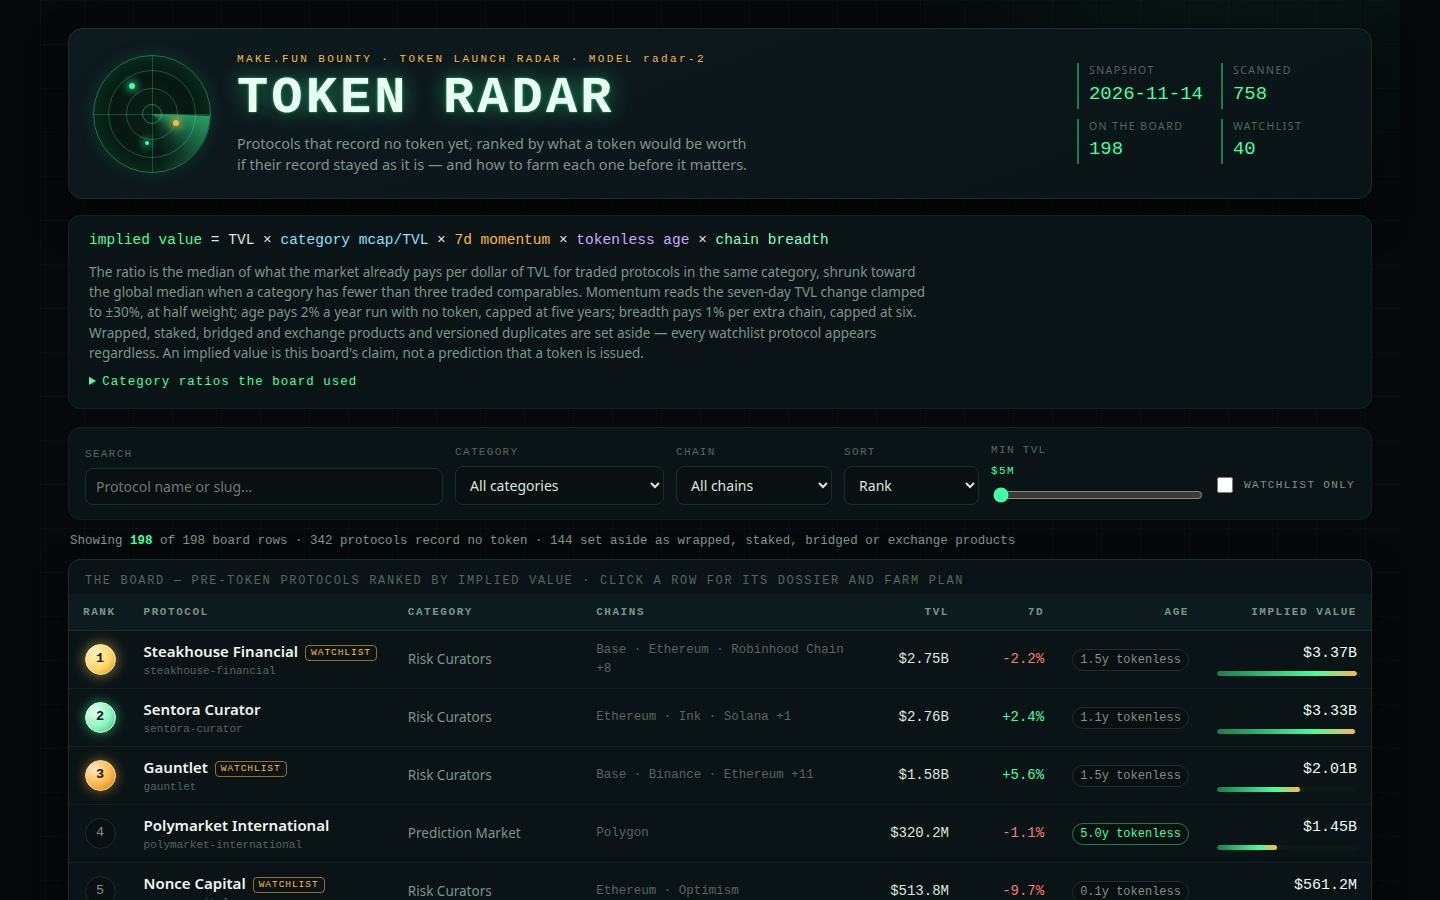
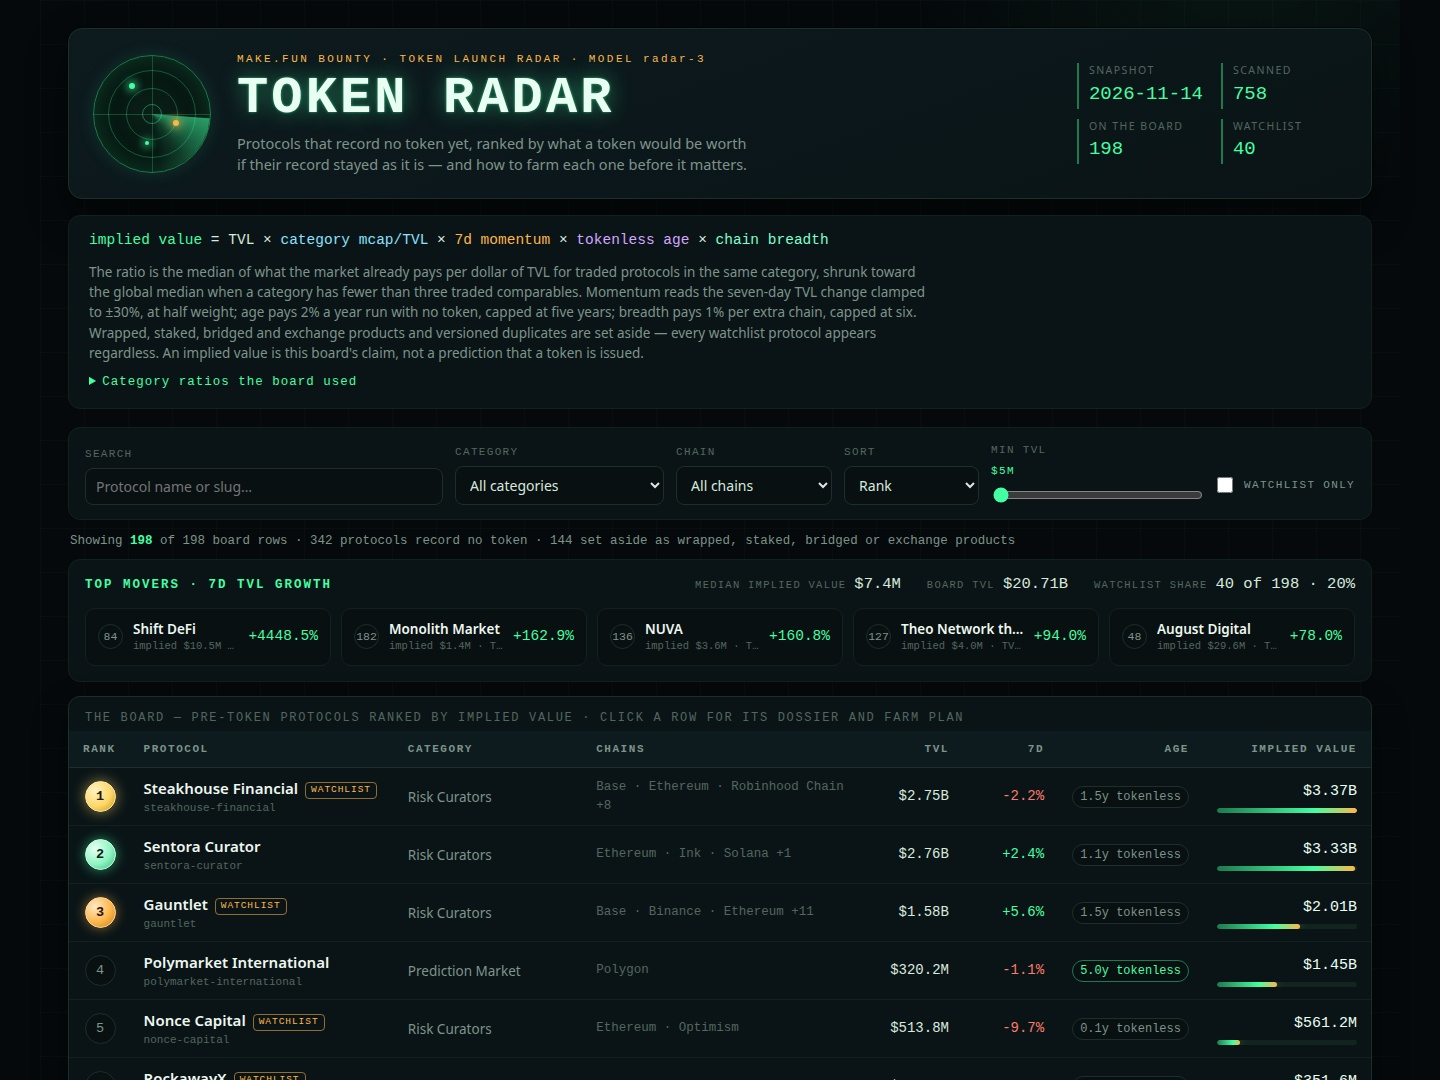
Screenshots, third pass: movers strip contained, dossier-framed detail with the comparable-set panel and plan summary, all three frames in the 300-350 KB band at 1440x1080

diff --git a/dashboard/app.css b/dashboard/app.css
@@ -147,21 +147,21 @@ h1 {
 .strip-stats div { display: flex; align-items: baseline; gap: 8px; }
 .strip-stats dt { font-size: 10.5px; letter-spacing: .12em; text-transform: uppercase; color: var(--faint); font-family: var(--mono); }
 .strip-stats dd { margin: 0; font-family: var(--mono); font-size: 15.5px; color: var(--txt); }
-.movers { display: grid; grid-template-columns: repeat(5, 1fr); gap: 10px; margin-top: 12px; }
+.movers { display: grid; grid-template-columns: repeat(5, minmax(0, 1fr)); gap: 10px; margin-top: 12px; }
 .mcard {
-  display: flex; align-items: center; gap: 10px; text-align: left; cursor: pointer;
+  display: flex; align-items: center; gap: 10px; text-align: left; cursor: pointer; min-width: 0;
   padding: 10px 12px; border-radius: 10px; color: var(--txt);
   background: var(--ink-2); border: 1px solid var(--line-soft); font: inherit;
   transition: border-color .15s ease, background .15s ease;
 }
 .mcard:hover { border-color: var(--phos-dim); background: rgba(67,255,163,.05); }
 .mcard:focus-visible { outline: 2px solid var(--phos-dim); outline-offset: 2px; }
-.mcard .rk { width: 27px; height: 27px; font-size: 12px; flex: 0 0 auto; }
+.mcard .rk { width: 25px; height: 25px; font-size: 11.5px; flex: 0 0 auto; }
 .m-main { flex: 1 1 auto; min-width: 0; }
 .m-name { display: block; font-weight: 600; font-size: 13.5px; color: #eef7f0; white-space: nowrap; overflow: hidden; text-overflow: ellipsis; }
-.m-sub { display: block; font-family: var(--mono); font-size: 11px; color: var(--faint); white-space: nowrap; overflow: hidden; text-overflow: ellipsis; }
-.m-pct { font-family: var(--mono); font-size: 15px; flex: 0 0 auto; }
-@media (max-width: 1080px) { .movers { grid-template-columns: repeat(3, 1fr); } }
+.m-sub { display: block; font-family: var(--mono); font-size: 10.5px; color: var(--faint); white-space: nowrap; overflow: hidden; text-overflow: ellipsis; }
+.m-pct { font-family: var(--mono); font-size: 14.5px; flex: 0 0 auto; }
+@media (max-width: 1080px) { .movers { grid-template-columns: repeat(3, minmax(0, 1fr)); } }
 @media (max-width: 760px) { .movers { grid-template-columns: 1fr; } .strip-stats { margin-left: 0; } }
 
 /* ---------- the board ---------- */

diff --git a/dashboard/app.js b/dashboard/app.js
@@ -40,6 +40,11 @@
     if (r.ratio_basis === 'shrunk') return esc(r.category) + ' has ' + r.ratio_comps + ' traded comparable' + (r.ratio_comps === 1 ? '' : 's') + ' — its median shrunk toward the global ' + R.ratios.global.toFixed(3);
     return 'no traded comparable in its category — the global median of ' + R.ratios.global_comps + ' traded protocols';
   }
+  function basisShort(r) {
+    if (r.ratio_basis === 'category') return r.ratio_comps + ' traded comparables · category median';
+    if (r.ratio_basis === 'shrunk') return r.ratio_comps + ' traded comparable' + (r.ratio_comps === 1 ? '' : 's') + ' · shrunk toward global';
+    return 'global median · ' + R.ratios.global_comps + ' traded protocols';
+  }
   function catRow(r) {
     for (var i = 0; i < R.ratios.categories.length; i++) {
       if (R.ratios.categories[i].category === r.category) return R.ratios.categories[i];
@@ -247,7 +252,7 @@
       '<dl class="stat-grid">' +
       '<div class="stat"><dt>Implied value</dt><dd>' + fmtUsd(r.implied_value_usd) + '<small>' + fmtFull(r.implied_value_usd) + '</small></dd></div>' +
       '<div class="stat"><dt>TVL</dt><dd>' + fmtUsd(r.tvl_usd) + '<small>' + fmtFull(r.tvl_usd) + '</small></dd></div>' +
-      '<div class="stat"><dt>Category ratio</dt><dd>' + r.ratio.toFixed(3) + '×<small>' + basisText(r) + '</small></dd></div>' +
+      '<div class="stat"><dt>Category ratio</dt><dd>' + r.ratio.toFixed(3) + '×<small>' + basisShort(r) + '</small></dd></div>' +
       '<div class="stat"><dt>TVL change · 7d</dt><dd>' + fmtPct(r.change_7d) + '<small>momentum factor ×' + r.momentum_factor.toFixed(3) + '</small></dd></div>' +
       '<div class="stat"><dt>Tokenless age</dt><dd>' + (r.age_years === null ? 'n/a' : r.age_years.toFixed(2) + 'y') + '<small>age factor ×' + r.age_factor.toFixed(3) + '</small></dd></div>' +
       '<div class="stat"><dt>Chains</dt><dd>' + r.chains.length + '<small>breadth factor ×' + r.chain_factor.toFixed(3) + '</small></dd></div>' +
